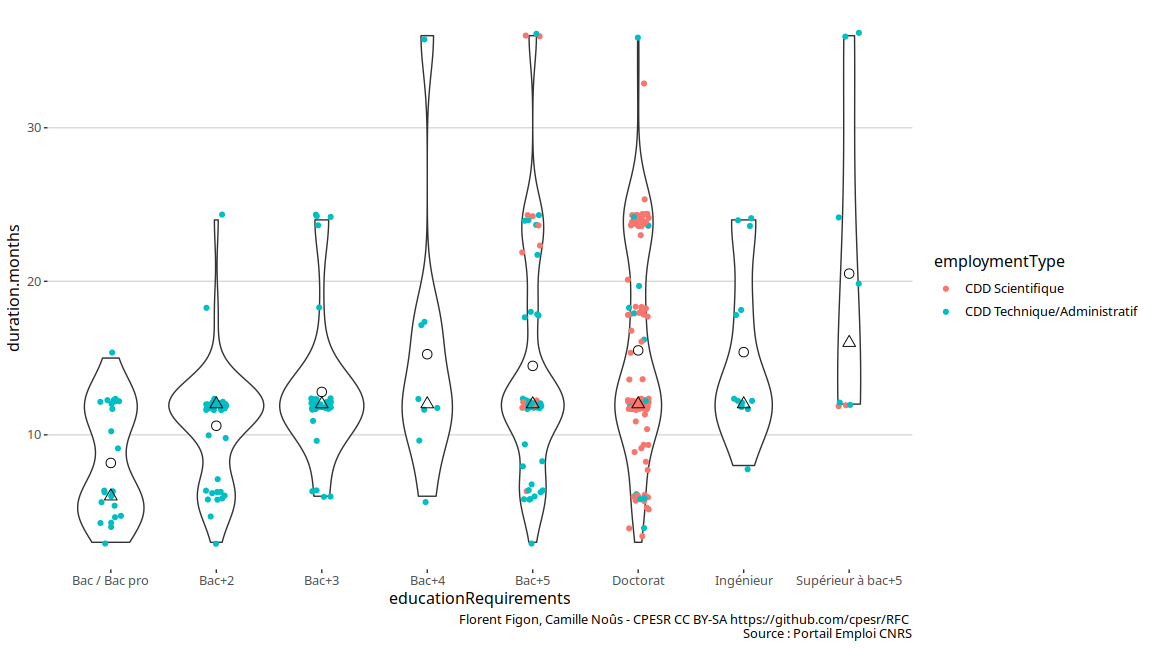
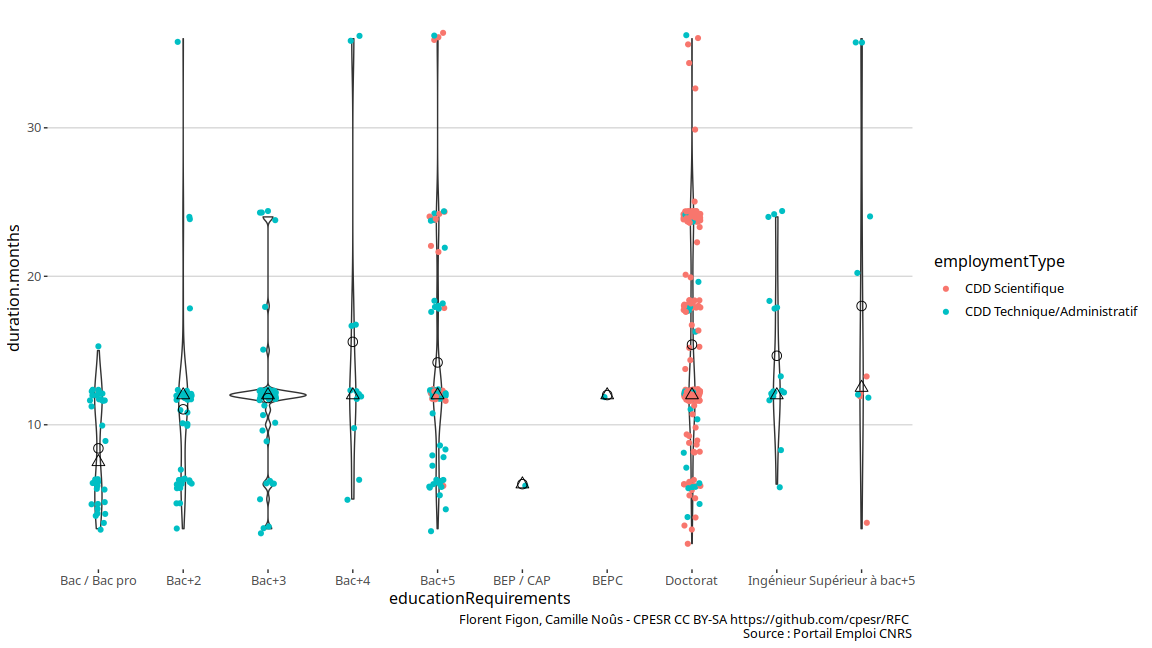
Mise à jour des offres emplois CNRS et parsing de la date de dépôt

diff --git a/EmploisCNRS/EmploisCDDCNRS.md b/EmploisCNRS/EmploisCDDCNRS.md
@@ -9,7 +9,7 @@ issues](https://github.com/cpesr/RFC/issues).*
 ## Description des données
 
   - Source : <https://emploi.cnrs.fr/Offres.aspx>
-  - Nombre d’observations : 313
+  - Nombre d’observations : 483
   - Variables :
 
 <!-- end list -->
@@ -25,6 +25,8 @@ issues](https://github.com/cpesr/RFC/issues).*
 
     ## `summarise()` ungrouping output (override with `.groups` argument)
 
+    ## Warning: Removed 6 row(s) containing missing values (geom_path).
+
 ![](EmploisCDDCNRS_files/figure-gfm/evolution.quotidienne.nb.offres.1-1.png)<!-- -->
 
 ## Durée des CDD
@@ -32,3 +34,7 @@ issues](https://github.com/cpesr/RFC/issues).*
 ### Durée en fonction du niveau d’étude requis
 
 ![](EmploisCDDCNRS_files/figure-gfm/duree.par.niveau.1-1.png)<!-- -->
+
+### Durée en fonction de l’expérience requise
+
+![](EmploisCDDCNRS_files/figure-gfm/duree.par.experience.1-1.png)<!-- -->
